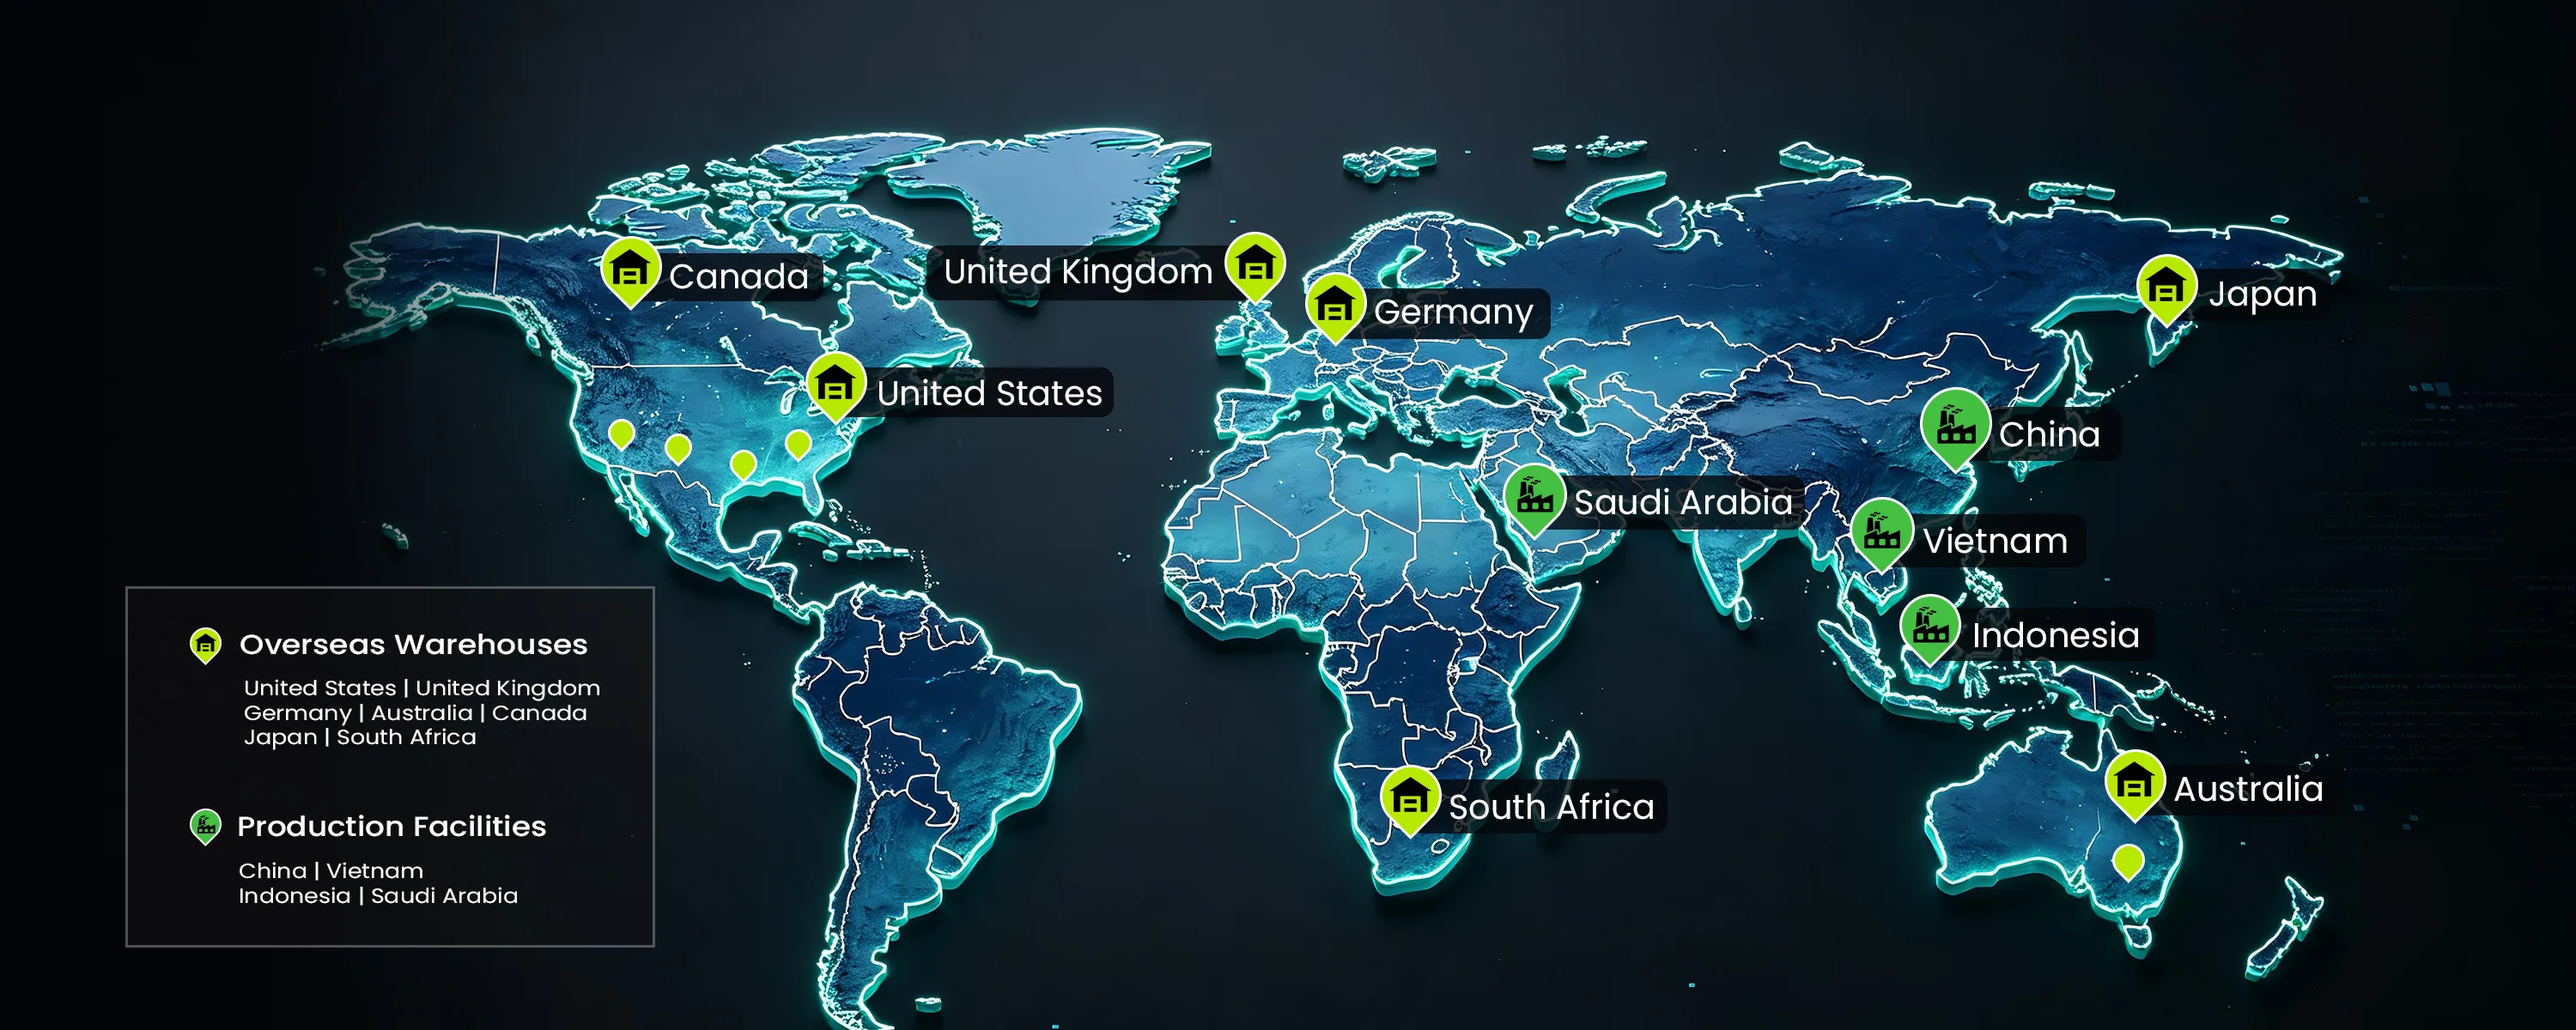
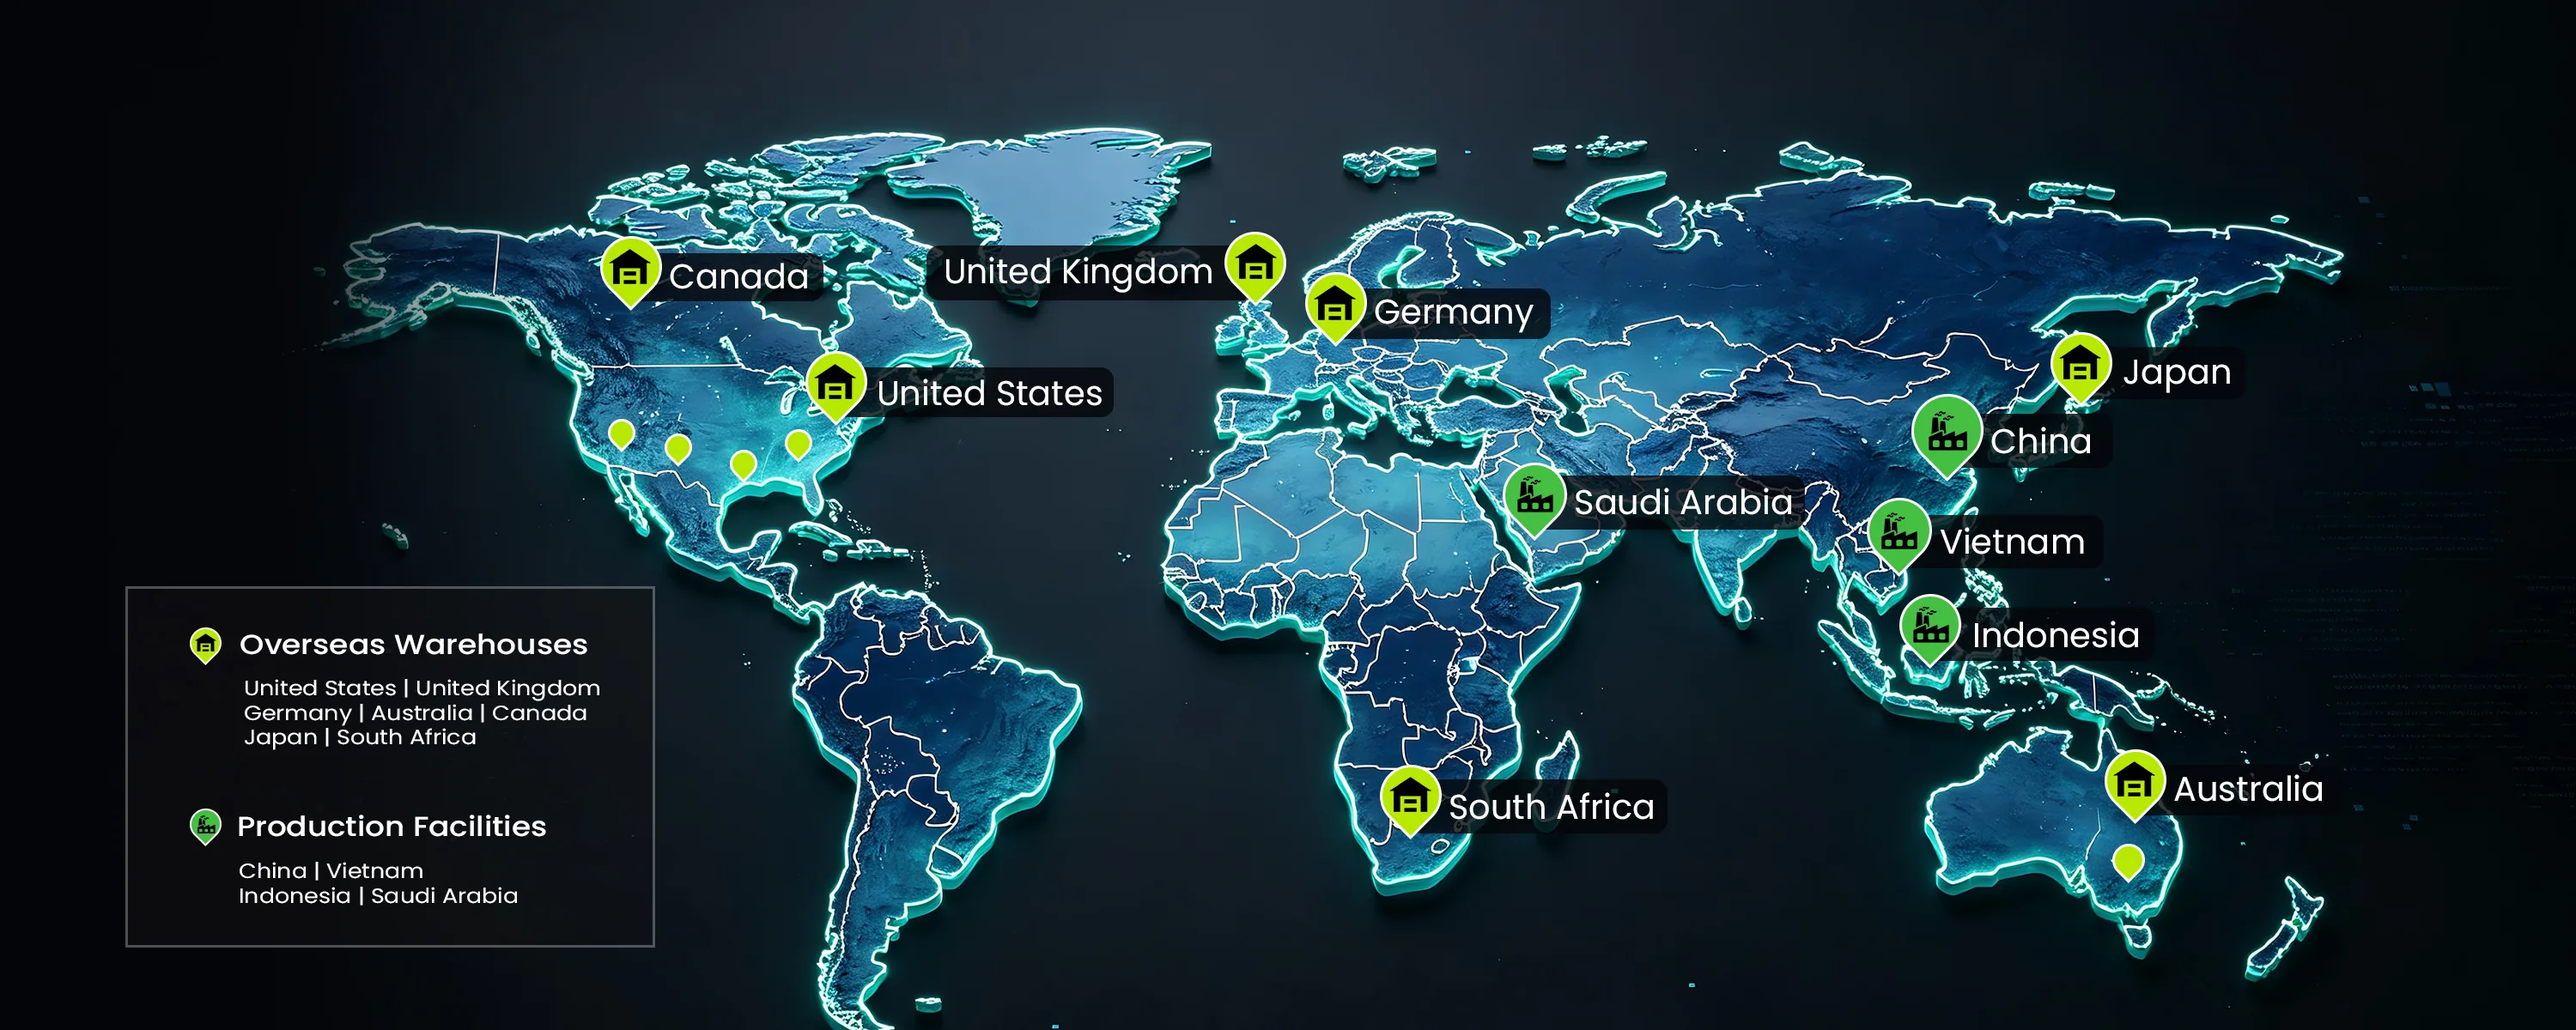
fix: update About global supply map (client 0813 asset); re-add www custom domain route; add client progress report doc

Changed region(s): [[0.744, 0.2467, 0.899, 0.4625], [0.713, 0.4625, 0.806, 0.555]]

diff --git a/docs/client-progress-report-2026-08-13.md b/docs/client-progress-report-2026-08-13.md
@@ -1,0 +1,66 @@
+# Callsun B2B 官网 & CRM 项目交付进度汇报
+
+**汇报日期**：2026-08-13
+**项目**：Callsun B2B 官网（callsunenergy.com）+ 询盘 CRM 系统
+**整体完成度**：约 85%
+
+---
+
+## 一、B端官网 1.0 刚需功能（12 项）
+
+| # | 模块 | 状态 | 说明 |
+|---|---|---|---|
+| 1 | GTM 集成 | 🔴 待接入 | 全站代码骨架已就位（含 Cookie 同意控制逻辑），**待客户提供 GTM ID**，填入即生效 |
+| 2 | GA4 集成 | 🔴 待接入 | 依赖 GTM；激活后可统计访问量、访问来源、热门页面、产品页浏览、资料下载、询盘提交 |
+| 3 | 询盘来源追踪 | ✅ 已完成 | 每条询盘记录 UTM 全参数、推荐来源、首次访问页面、最终提交页面，全部入库 |
+| 4 | 询盘转化追踪 | 🟡 已埋点 | 询盘提交成功自动触发转化事件（已写入 dataLayer），GTM 激活后可对接 Google Ads / Meta 广告 |
+| 5 | SEO 后台设置 | 🟡 部分完成 | 博客：后台可直接修改 URL / Title / Meta Description / 封面 / SEO 信息；产品页与普通页：SEO 参数在代码层可配置 |
+| 6 | SEO 基础配置 | 🟡 大部分完成 | 自动 Sitemap ✅、Robots.txt ✅、Canonical ✅、404 页面 ✅；301 跳转按当前需求可不做；Search Console 对接待域名验证 |
+| 7 | 博客系统 | ✅ 已完成 | 后台发布 / 编辑 / 分类博客，支持封面、URL 与 SEO 设置，发布后自动进入 Sitemap |
+| 8 | 询盘表单 | ✅ 已完成 | 姓名、商务邮箱、公司、国家、感兴趣产品、项目需求，支持上传规格书 / 项目文件（≤5MB） |
+| 9 | 询盘后台 | ✅ 已完成 | 询盘自动入库，支持查看、搜索、筛选、分配负责人、修改状态、添加跟进记录、导出 Excel |
+| 10 | 通知与防丢失 | 🟡 大部分完成 | 新询盘实时飞书通知 ✅；先保存数据库再回执，通知失败不影响入库 ✅；自动回复客户邮件为可选增项 |
+| 11 | Cookie 与隐私 | ✅ 已完成 | Cookie 同意弹窗 + Privacy Policy 页面；统计与广告标签严格按用户选择加载 |
+| 12 | 基础性能与安全 | 🟡 大部分完成 | 手机端适配 ✅、全站图片 WebP 压缩（总体积降 70%+）✅、HTTPS ✅、表单防垃圾（Turnstile 人机验证 + 蜜罐 + 频率限制）✅；数据库定期备份已配置，修复验证中 |
+
+> 小结：5 项已完成，5 项大部分完成，2 项待接入（GTM / GA4，等待 GTM ID）
+
+---
+
+## 二、B端官网 CRM 1.0 刚需（12 项）
+
+| # | 模块 | 状态 | 说明 |
+|---|---|---|---|
+| 1 | 询盘自动入库 | ✅ | 表单提交后自动生成客户询盘记录，先写数据库，不依赖邮件 |
+| 2 | 客户信息记录 | ✅ | 姓名、商务邮箱、公司、国家、感兴趣产品、具体需求全字段保存 |
+| 3 | 来源记录 | ✅ | 记录询盘来自 Google / 社交媒体 / 直接访问，以及提交时的具体页面 |
+| 4 | 询盘分配 | ✅ | 管理员可将询盘分配给具体业务员，列表显示负责人 |
+| 5 | 跟进状态 | ✅ | 新询盘 / 联系中 / 有效客户 / 报价寄样 / 已成交 / 未成交，6 状态全支持 |
+| 6 | 跟进记录 | ✅ | 业务员可填写联系时间、沟通内容、报价情况、备注 |
+| 7 | 下次跟进 | ✅ | 可设置下次跟进日期，到期自动提醒业务员（每日 9:00 飞书推送待跟进清单） |
+| 8 | 搜索筛选 | ✅ | 支持按公司、国家、产品、来源、负责人、状态、时间区间组合筛选 |
+| 9 | 重复客户识别 | ✅ | 相同邮箱再次提交自动标记重复，可查看该客户历史询盘 |
+| 10 | 通知与导出 | ✅ | 新询盘自动通知负责人（飞书）；后台数据一键导出 Excel（CSV 兼容） |
+| 11 | 权限管理 | ✅ | 业务员仅查看自己名下询盘；管理员查看全部询盘并可重新分配 |
+| 12 | 数据备份 | ⚠ 修复中 | 每日自动备份已配置（保留 30 天滚动），因工具权限变更导致近期备份中断，正在修复并验证 |
+
+> 小结：11 项已完成，1 项修复中（数据备份）
+
+---
+
+## 三、需要客户配合的事项
+
+| # | 事项 | 用途 | 预计耗时 |
+|---|---|---|---|
+| 1 | 提供 GTM 容器 ID（如有 GA4 一并提供衡量 ID） | 激活全站统计与广告追踪 | 5 分钟 |
+| 2 | 完成 Google Search Console 域名验证（发验证码给我们即可） | 对接搜索引擎收录监控 | 5 分钟 |
+
+## 四、我方待办（无需客户参与）
+
+1. 修复数据库定时备份并验证（预计今日完成）
+2. CMS 后台登录全流程实测（功能已就绪，走一遍确认）
+3. （可选）询盘自动回复邮件 —— 客户提交后自动收到确认邮件，需接入邮件发送服务
+
+---
+
+*文档生成：2026-08-13 · 项目仓库：youjunhui-sky/callsun-b2b · 线上地址：https://callsunenergy.com*
